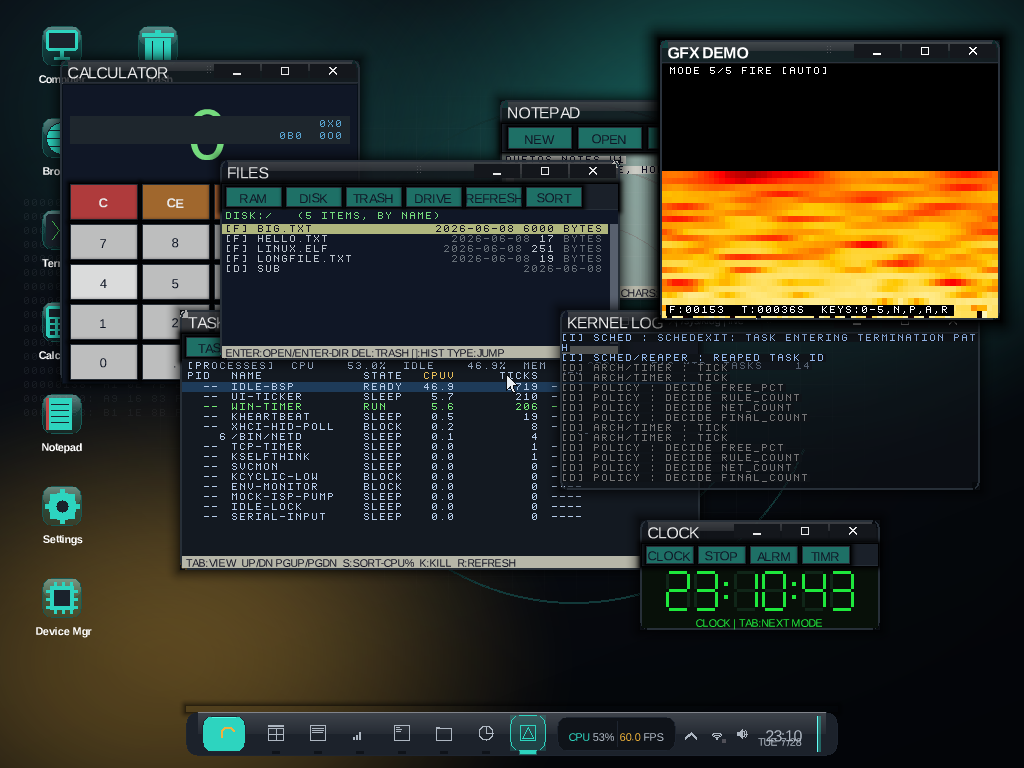
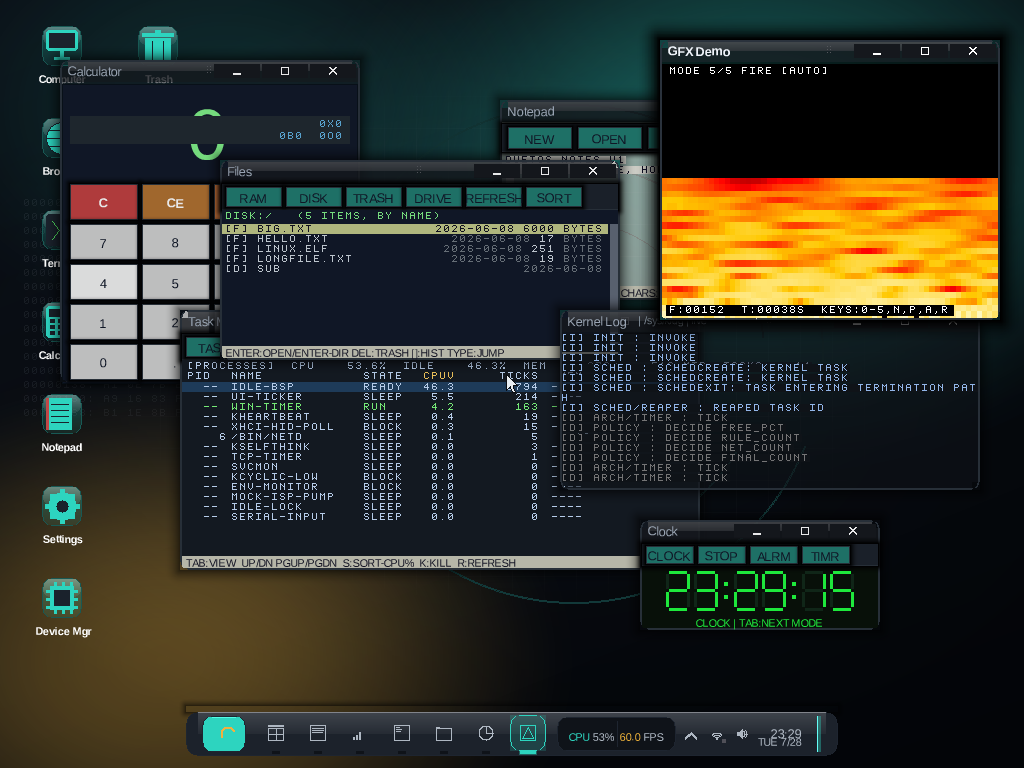
screenshots + wiki: capture the final Aurora chrome
Regenerates 06-desktop-duet.png and 09-duet-pixel-render.png on the
quiet-type, seamless, round-cornered chrome, and records the corner
punch, the seam suppression and the chrome type sizes in Compositor.md.

diff --git a/wiki/subsystems/Compositor.md b/wiki/subsystems/Compositor.md
@@ -438,6 +438,26 @@ chrome for the debug / screenshot workflow.
   a cached per-window box blur of the compose surface
   (`IMPLEMENTATION.md` §4 "full version"); the glass tints but does not
   frost.
+- **Rounded corners are punched, not painted.** The chrome rounds the
+  body, then the display list and `content_fn` fill the client rect
+  square and square the corners straight back off. After all content
+  lands, `AuroraWallpaperRestoreCorners` replays the exact wallpaper
+  pixels outside each corner arc from the cached backdrop — the cache
+  is what makes this exact rather than a flat-colour punch, since
+  `FramebufferReadPixel` cannot see the compose surface. Skipped on
+  maximized windows.
+  **GAP:** the replay is of the *wallpaper*, so a corner overlapping a
+  lower window shows wallpaper rather than that window (~14 px per
+  corner at radius 8).
+- **No seam.** On glass the title/client divider and the inner client
+  highlight are suppressed: the design's window is one continuous
+  surface, and those two lines are what made the title strip read as a
+  separate contrasting band.
+- **Chrome type.** `ChromeTextRole::Title` is the design's 13 px, not
+  16, and window titles paint `--ink` (active) / `--ink-2` (unfocused)
+  rather than pure white. Window titles are registered in title case.
+  `bitmap_scale` is unchanged, so the non-TTF palettes keep their
+  existing metrics.
 - **Neutral title strip.** On glass the title bar paints a single
   neutral `--bg-3` shade for every window rather than the per-role hue,
   matching the reference desktop; the role colour survives in the
